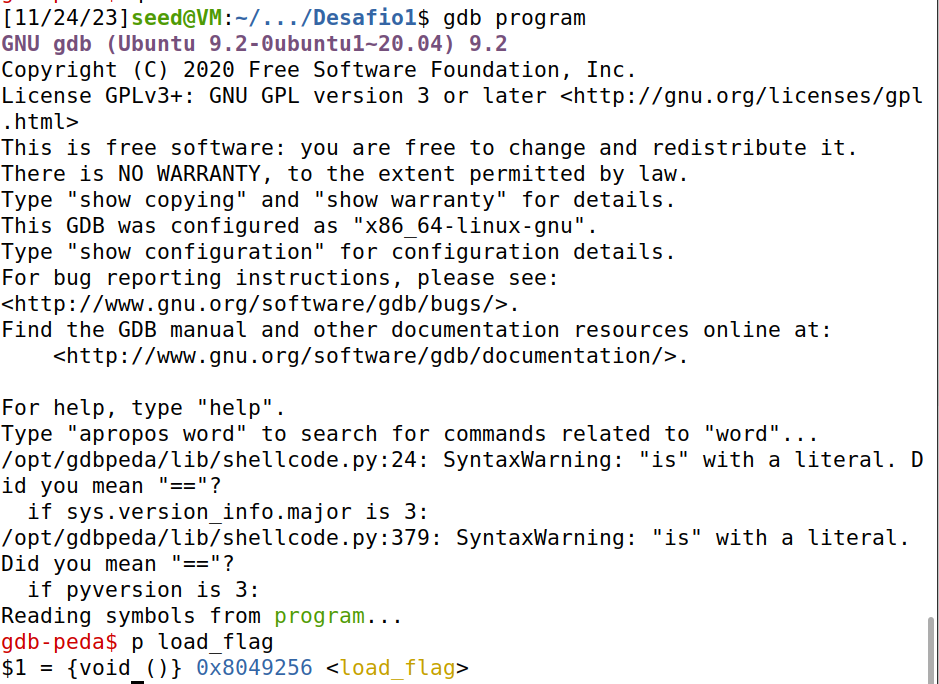
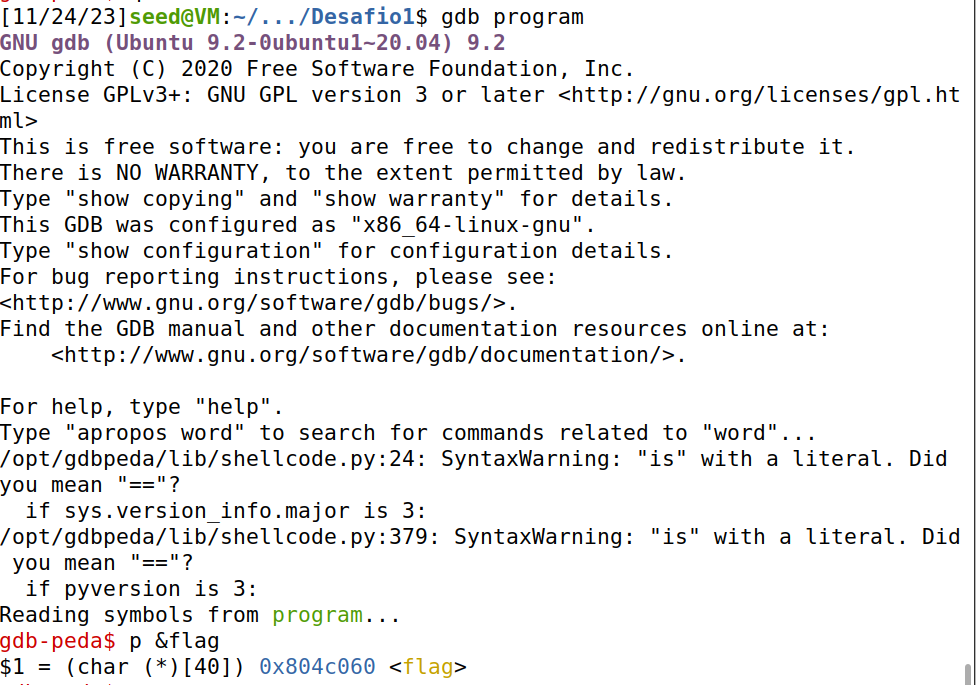
Updated CTF7.md

Changed region(s): [[0.0, 0.0, 0.9883, 0.5526], [0.0, 0.5833, 0.9883, 1.0], [0.9883, 0.8904, 1.0, 0.9825]]

diff --git a/CTF7.md b/CTF7.md
@@ -35,14 +35,14 @@ Next, by analising the source code, we should answer the following questions:
     - The vulnerability allows an attacker to overwrite the buffer if they input more than 32 bytes, potentially leading to a buffer overflow. This, in turn, could enable the attacker to manipulate the execution stack, potentially leading to unauthorized access to values and control flow within the program.
 
 - *Which functionality allows us to obtain the flag?*
-    - By using a format string and the register where the ```load_flag()``` is called, we might able to access the flag.
+    - By using a format string and the register where the "flag" is stored, we might able to access the flag.
 
 
 ### Do the exploit
 
 After answering the questions above, we are able to do the exploit.
 
-Firstly, by running the command ```gdb program``` we are able to obtain the register of the ```load_flag()``` function.
+Firstly, by running the command ```gdb program``` we are able to obtain the register of the "flag".
 
 ![Image3](images/CTF7/3.png)
 
